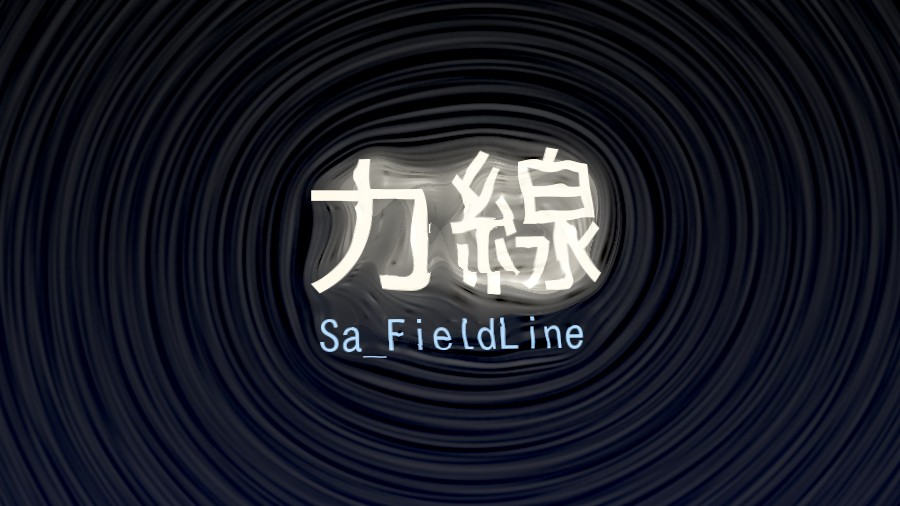
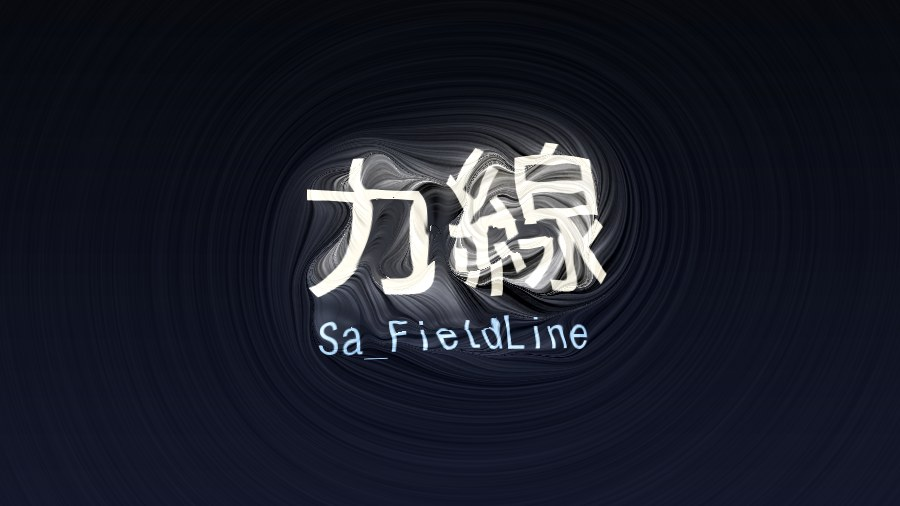
Make the normalisers ratios, not absolutes, so text works
Running the effect on text exposed two bugs that photographs hid.

The coherence divisor was the absolute value of p99(|v|) measured on
photographs. Text has sparse contours, so the field is weak everywhere and
a fixed divisor never lets coherence rise: amp collapsed and the whole
effect sank. All three normalisers are now ratios of a percentile to the
whole-frame RMS, which is what the other two already were. Measured across
text and three photographs the ratios hold to roughly a third either way
(K_MAG 3.4-4.2, K_PHI 1.6-2.6, K_COH 2.6-3.9), where an absolute is wrong
the moment the content changes. This needs one more statistic, so |v| gets
its own reduce chain and Stats grows a mode for squaring a folded vector.

FieldB was also handing out amp with res already multiplied in, but the
reference applies res three different ways: amp*(0.55+0.45*res) for the
displacement, plain amp for the glow, amp*res for the force lines. Folding
them into one value dimmed the glow and stopped the lines being suppressed
where the field spins too fast to resolve. It now passes both and each
consumer combines them itself.

Two adjustments to the line drawing while it was under the microscope. It
normalises by the distance actually walked rather than the nominal length
— the step is gated by field strength, so on text the path came out at 55%
of nominal — which costs one add inside the loop. And the gain goes to
0.36, measured: against the reference's local normalisation the contrast
[…]

diff --git a/prototype/gpu_sim.py b/prototype/gpu_sim.py
@@ -33,7 +33,7 @@ SPREAD_OCTAVES = 6
 # 局所 RMS -> リファレンスの percentile へ合わせる係数（calibrate.py で実測）
 K_MAG = 3.50           # p99(mag)  / rms(mag)
 K_PHI = 1.95           # p98(phi)  / rms(phi)
-K_COH = 0.95           # p99(|v|)。v は phi 正規化済みなので定数でよい
+K_COH = 3.10           # p99(|v|) / rms(|v|)
 K_CURL = 0.014         # p97(curl)
 K_TURB = 0.08          # p88(turb) より大きめ。smoothness を上げた時だけ緩む
 LINE_SEED_EDGE = 0.7   # 力線の種を輪郭近くへ寄せる度合い
@@ -255,7 +255,10 @@ def build_field(rgb, p: GpuParams):
     vx = d2d_blur(vx, sig); vy = d2d_blur(vy, sig)
 
     amp_raw = np.hypot(vx, vy)
-    coh = np.clip(amp_raw / K_COH, 0.0, 1.0)
+    # コヒーレンスも全画面 RMS で正規化する。定数で割ると、輪郭がまばらな素材
+    # （文字など）で場が弱くなり、効果が丸ごと沈む。
+    coh_scale = max(K_COH * _global_rms(amp_raw), 1e-4)
+    coh = np.clip(amp_raw / coh_scale, 0.0, 1.0)
     env = phi_n ** (0.35 + 1.3 * p.falloff)
     flow = (0.30 + 0.70 * np.sqrt(coh)).astype(np.float32)
     amp = (((0.10 + 0.90 * env) * (0.35 + 0.65 * coh)) ** p.amp_gamma).astype(np.float32)
@@ -276,7 +279,6 @@ def build_field(rgb, p: GpuParams):
     turb = (np.hypot(_dx(dx, r), _dy(dx, r)) + np.hypot(_dx(dy, r), _dy(dy, r))) * ts / K_TURB
     res = (1.0 / (1.0 + (0.85 * turb) ** 2)).astype(np.float32)
 
-    amp_eff = (amp * (0.55 + 0.45 * res)).astype(np.float32)
 
     LAST.clear()
     LAST.update(mag=mag, mag_q=mag_q, rms_mag=_global_rms(mag_q),
@@ -298,7 +300,9 @@ def build_field(rgb, p: GpuParams):
 
     return {
         "A": np.stack([dx, dy, flow, curl], -1).astype(np.float32),   # FieldA
-        "B": np.stack([amp_eff, phi_n, res, np.zeros_like(res)], -1).astype(np.float32),
+        # R は素の amp。res の掛け方は用途ごとに違うので、ここでは掛けない。
+        #   変位: amp * (0.55 + 0.45*res) / 発光: amp / 力線: amp * res
+        "B": np.stack([amp, phi_n, res, np.zeros_like(res)], -1).astype(np.float32),
         "R": np.stack([rx, ry], -1).astype(np.float32),               # Radial
         "conf": conf,
         "shape": (h, w),
@@ -323,7 +327,9 @@ def advect(rgb, F, p: GpuParams):
     fb = 1.0 - 0.35 * p.chroma
     nmax = int(np.ceil(n * max(fr, 1.0)))
 
-    amp_eff = d2d_up(B[..., 0], (h, w))
+    amp_raw = d2d_up(B[..., 0], (h, w))
+    res_up = d2d_up(B[..., 2], (h, w))
+    amp_eff = amp_raw * (0.55 + 0.45 * res_up)
     k_all = p.strength * amp_eff
 
     px = xx.copy(); py = yy.copy()
@@ -365,7 +371,7 @@ def advect(rgb, F, p: GpuParams):
         out = _clampsamp(rgb, sy, sx)
 
     if p.shade > 1e-4:
-        sh = _clampsamp(amp_eff, sy, sx) - amp_eff
+        sh = _clampsamp(amp_raw, sy, sx) - amp_raw
         out = out * (1.0 + p.shade * 1.2 * sh[..., None])
     return out.astype(np.float32), (sy, sx)
 
@@ -471,7 +477,11 @@ def _highlight(col, py, px):
 
 
 def _walk(col, F, p: GpuParams, sgn, n, hstep, mode):
-    """流線に沿って payload を平均する。mode 0 = 発光、1 = 力線(LIC)。"""
+    """流線に沿って payload を平均する。mode 0 = 発光、1 = 力線(LIC)。
+
+    戻り値は (payload, 実際に歩いた距離)。歩幅は場の強さでゲートされるので、
+    公称の長さとは大きく変わる。LIC の正規化にはこちらを使う。
+    """
     h, w = col.shape[:2]
     Q = p.field_div
     A = F["A"]
@@ -489,6 +499,7 @@ def _walk(col, F, p: GpuParams, sgn, n, hstep, mode):
         acc = None
         lic = _line_noise(cx, cy, phiN, p.line_grain, LINE_SEED_EDGE)
     wsum = np.ones((h, w), np.float32)
+    plen = np.zeros((h, w), np.float32)
 
     for i in range(n):
         a = _clampsamp(A, cy / Q, cx / Q)
@@ -504,8 +515,10 @@ def _walk(col, F, p: GpuParams, sgn, n, hstep, mode):
         dn = np.hypot(dxv, dyv) + EPS
         dxv /= dn
         dyv /= dn
-        cx = cx + dxv * (hstep * a[..., 2])
-        cy = cy + dyv * (hstep * a[..., 2])
+        step = hstep * a[..., 2]
+        cx = cx + dxv * step
+        cy = cy + dyv * step
+        plen = plen + step
 
         t = (i + 1) / n
         wgt = np.float32(0.5 + 0.5 * np.cos(np.pi * t))
@@ -517,8 +530,8 @@ def _walk(col, F, p: GpuParams, sgn, n, hstep, mode):
         wsum = wsum + wgt
 
     if mode == 0:
-        return acc / wsum[..., None]
-    return lic / wsum
+        return acc / wsum[..., None], plen
+    return lic / wsum, plen
 
 
 def post(col, F, p: GpuParams, original):
@@ -526,12 +539,15 @@ def post(col, F, p: GpuParams, original):
     h, w = col.shape[:2]
     out = col.copy()
     amp = d2d_up(F["B"][..., 0], (h, w))
+    res = d2d_up(F["B"][..., 2], (h, w))
 
     if p.glow > 1e-4:
         total = p.flow_length * 2.2
         n = _step_count(total, p.step_px, p.steps)
         hstep = total / n
-        g = 0.5 * (_walk(out, F, p, -1.0, n, hstep, 0) + _walk(out, F, p, 1.0, n, hstep, 0))
+        gf, _ = _walk(out, F, p, -1.0, n, hstep, 0)
+        gb, _ = _walk(out, F, p, 1.0, n, hstep, 0)
+        g = 0.5 * (gf + gb)
         g = np.clip(g * (p.glow * 2.0 * amp)[..., None], 0.0, 1.0)
         out = 1.0 - (1.0 - np.clip(out, 0.0, 1.0)) * (1.0 - g)      # screen
 
@@ -539,12 +555,20 @@ def post(col, F, p: GpuParams, original):
         total = max(p.flow_length * 1.8, 34.0)
         n = int(np.clip(round(total), 8, min(p.steps * 2, 220)))
         hstep = total / n
-        lic = 0.5 * (_walk(out, F, p, -1.0, n, hstep, 1) + _walk(out, F, p, 1.0, n, hstep, 1))
-        # 局所コントラスト正規化の代わりに、LIC の標準偏差を解析的に出して割る
+        lf, len_f = _walk(out, F, p, -1.0, n, hstep, 1)
+        lb, len_b = _walk(out, F, p, 1.0, n, hstep, 1)
+        lic = 0.5 * (lf + lb)
+        # 局所コントラスト正規化の代わりに、LIC の標準偏差を解析的に出して割る。
+        # 公称の長さではなく **実際に歩いた距離** を使う。場が強くコヒーレントな所ほど
+        # 長く歩き、平均される本数が増えて分散が下がるので、そこで線が薄くなる。
         g_eff = max(p.line_grain, 0.6)
-        sd = 0.5 * np.sqrt(g_eff / max(total, g_eff)) + 0.030
-        tex = np.clip((lic - 0.5) / sd * 0.30 * p.line_density + 0.5, 0.0, 1.0)
-        t = ((tex - 0.5) * (p.line_draw * amp) * 1.7)[..., None]
+        plen = 0.5 * (len_f + len_b)
+        sd = 0.5 * np.sqrt(g_eff / np.maximum(plen, g_eff)) + 0.030
+        # 0.36 は実測合わせ。リファレンスの局所正規化に対してコントラストが
+        # 2 割ほど足りなかったぶんを埋める。
+        tex = np.clip((lic - 0.5) / sd * 0.36 * p.line_density + 0.5, 0.0, 1.0)
+        # 力線は解像できない所（場が速く回る所）を強く抑える
+        t = ((tex - 0.5) * (p.line_draw * amp * res) * 1.7)[..., None]
         base = np.clip(out, 0.0, 1.0)
         out = np.maximum(base + t * (0.35 + 0.65 * (1.0 - np.abs(2.0 * base - 1.0))), 0.0)
 

diff --git a/FieldLineProcessor.cs b/FieldLineProcessor.cs
@@ -63,6 +63,7 @@ internal sealed class FieldLineProcessor : IVideoEffectProcessor
     readonly ConfidencePass confidence = null!;
     readonly SpreadPass spread = null!;
     readonly StatsPass phiStats = null!;
+    readonly StatsPass vStats = null!;
     readonly FieldDirPass fieldDir = null!;
     readonly FieldAPass fieldA = null!;
     readonly FieldBPass fieldB = null!;
@@ -74,7 +75,7 @@ internal sealed class FieldLineProcessor : IVideoEffectProcessor
     readonly PostPass post = null!;
 
     readonly ID2D1Image lumaOut = null!, edgeOut = null!, magStatsOut = null!, confOut = null!;
-    readonly ID2D1Image spreadOut = null!, phiStatsOut = null!, dirOut = null!;
+    readonly ID2D1Image spreadOut = null!, phiStatsOut = null!, vStatsOut = null!, dirOut = null!;
     readonly ID2D1Image fieldAOut = null!, fieldBOut = null!, radialOut = null!;
     readonly ID2D1Image advectOut = null!, prioOut = null!, initOut = null!;
     readonly ID2D1Image compositeOut = null!, postOut = null!;
@@ -90,6 +91,8 @@ internal sealed class FieldLineProcessor : IVideoEffectProcessor
     readonly Node[] spreadCrop = new Node[SpreadOctaves];
     readonly Node[] phiReduce = new Node[ReduceLevels];
     readonly Node phiNorm = null!;
+    readonly Node[] vReduce = new Node[ReduceLevels];
+    readonly Node vNorm = null!;
     readonly Node dirBorder = null!, dirBlur = null!, dirCrop = null!;
     readonly Node prioBorder = null!, prioBlur = null!, prioCrop = null!;
 
@@ -140,6 +143,7 @@ internal sealed class FieldLineProcessor : IVideoEffectProcessor
         confidence = Keep(new ConfidencePass(devices), out confOut);
         spread = Keep(new SpreadPass(devices), out spreadOut);
         phiStats = Keep(new StatsPass(devices), out phiStatsOut);
+        vStats = Keep(new StatsPass(devices), out vStatsOut);
         fieldDir = Keep(new FieldDirPass(devices), out dirOut);
         fieldA = Keep(new FieldAPass(devices), out fieldAOut);
         fieldB = Keep(new FieldBPass(devices), out fieldBOut);
@@ -210,10 +214,22 @@ internal sealed class FieldLineProcessor : IVideoEffectProcessor
         dirCrop = NewCrop();
         dirCrop.Effect.SetInput(0, dirBlur.Output, true);
 
+        // コヒーレンスも全画面 RMS で正規化する。定数で割ると、輪郭がまばらな素材
+        // （文字など）で場が弱くなり、効果が丸ごと沈む。
+        vStats.SetInput(0, dirCrop.Output, true);
+        for (var i = 0; i < ReduceLevels; i++)
+        {
+            vReduce[i] = NewScale(0.5f);
+            vReduce[i].Effect.SetInput(0, i == 0 ? vStatsOut : vReduce[i - 1].Output, true);
+        }
+        vNorm = NewBorder();
+
         fieldA.SetInput(0, dirCrop.Output, true);
+        fieldA.SetInput(1, vNorm.Output, true);
         fieldB.SetInput(0, dirCrop.Output, true);
         fieldB.SetInput(1, spreadOut, true);
         fieldB.SetInput(2, phiNorm.Output, true);
+        fieldB.SetInput(3, vNorm.Output, true);
 
         // --- P5: 引き伸ばし専用の放射場
         radial.SetInput(0, fieldBOut, true);
@@ -323,6 +339,7 @@ internal sealed class FieldLineProcessor : IVideoEffectProcessor
         {
             magNorm.Effect.SetInput(0, magReduce[levels - 1].Output, true);
             phiNorm.Effect.SetInput(0, phiReduce[levels - 1].Output, true);
+            vNorm.Effect.SetInput(0, vReduce[levels - 1].Output, true);
             wiredReduceLevels = levels;
         }
 
@@ -354,8 +371,13 @@ internal sealed class FieldLineProcessor : IVideoEffectProcessor
         edge.C5 = new Vector4(0f, 0f, 2f, 0f);
 
         luma.C5 = Vector4.Zero;
+        // Stats のモード: 0 = B チャンネル、1 = RG の折込ベクトル
+        magStats.C0 = Vector4.Zero;
         magStats.C5 = Vector4.Zero;
+        phiStats.C0 = Vector4.Zero;
         phiStats.C5 = Vector4.Zero;
+        vStats.C0 = new Vector4(1f, 0f, 0f, 0f);
+        vStats.C5 = Vector4.Zero;
         priority.C5 = Vector4.Zero;
         // 掴めた画素は完全不透明で塗り替える。score には tie*距離 が入っているので、
         // 閾値をその半分ぶん下げて補正する。

diff --git a/Effects/FieldAPass.cs b/Effects/FieldAPass.cs
@@ -30,7 +30,7 @@ internal sealed class FieldAPass : D2D1CustomShaderEffectBase
     public Vector4 C4 { set => SetValue((int)Impl.Properties.C4, value); }
     public Vector4 C5 { set => SetValue((int)Impl.Properties.C5, value); }
 
-    [CustomEffect(1)]
+    [CustomEffect(2)]
     internal sealed class Impl : D2D1CustomShaderEffectImplBase<Impl>
     {
         Constants constants;

diff --git a/Effects/FieldBPass.cs b/Effects/FieldBPass.cs
@@ -30,7 +30,7 @@ internal sealed class FieldBPass : D2D1CustomShaderEffectBase
     public Vector4 C4 { set => SetValue((int)Impl.Properties.C4, value); }
     public Vector4 C5 { set => SetValue((int)Impl.Properties.C5, value); }
 
-    [CustomEffect(3)]
+    [CustomEffect(4)]
     internal sealed class Impl : D2D1CustomShaderEffectImplBase<Impl>
     {
         Constants constants;
